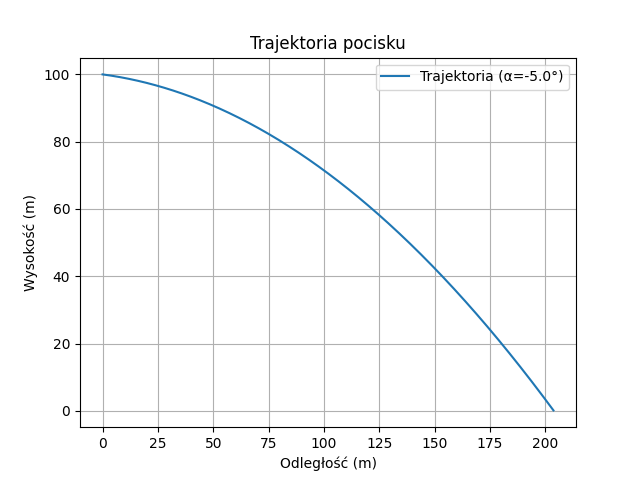
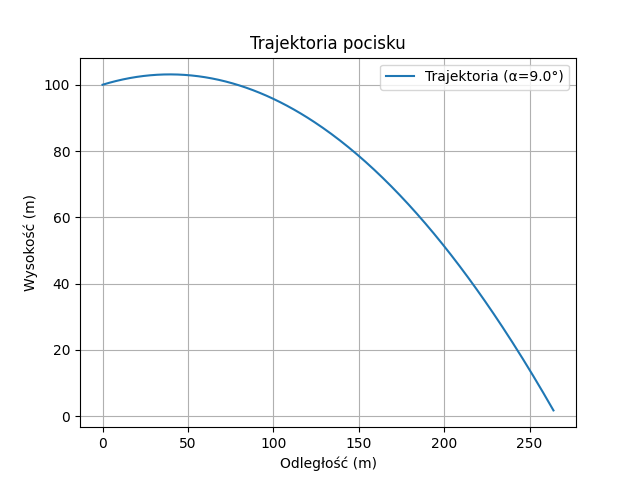
skonczony lab1

diff --git a/lab1/zad2.py b/lab1/zad2.py
@@ -2,49 +2,110 @@ import math
 import random
 import matplotlib.pyplot as plt
 
-g = 9.81
-h = 100
-v0 = 50
+g = 9.8 # Przyspieszenie ziemskie
+h = 100 # Wysokość trebusza
+v0 = 50 # Początkowa prędkość pocisków
 
-def oblicz_dystans(alpha):
-    alpha_rad = math.radians(alpha)
-    return (v0 * math.sin(alpha_rad) + math.sqrt(v0 ** 2 * math.sin(alpha_rad) ** 2 + 2 * g * h)) * (
-                v0 * math.cos(alpha_rad) / g)
+def oblicz_dystans(kąt):
+    kąt_na_radiany = math.radians(kąt)
+    return (v0 * math.sin(kąt_na_radiany) + math.sqrt(v0 ** 2 * math.sin(kąt_na_radiany) ** 2 + 2 * g * h)) * (v0 * math.cos(kąt_na_radiany) / g)
 
-def rysuj_trajektorie(alpha):
-    alpha_rad = math.radians(alpha)
-    vx = v0 * math.cos(alpha_rad)
-    vy = v0 * math.sin(alpha_rad)
+def rysuj_trajektorie(kąt):
+    kąt_na_radiany = math.radians(kąt)
 
-    t_max = (vy + math.sqrt(vy ** 2 + 2 * g * h)) / g
-    t_values = [t * 0.01 for t in range(int(t_max / 0.01) + 1)]
+    x_values = []
+    for x in range(0, int(oblicz_dystans(kąt)), 1):
+        x_values.append(x)
 
-    x_values = [vx * t for t in t_values]
-    y_values = [vy * t - 0.5 * g * t ** 2 + h for t in t_values]
+    y_values = [(-g / (2 * v0**2 * math.cos(kąt_na_radiany)**2)) * x**2 + (math.tan(kąt_na_radiany) * x) + h for x in x_values]
 
-    plt.plot(x_values, y_values, label=f'Trajektoria (α={alpha}°)')
+
+    plt.plot(x_values, y_values, label=f'Trajektoria (α={kąt}°)')
     plt.xlabel('Odległość (m)')
     plt.ylabel('Wysokość (m)')
     plt.title('Trajektoria pocisku')
     plt.grid()
     plt.legend()
     plt.savefig('trajektoria.png')
-    plt.show()
 
 
 cel = random.randint(50, 340)
 print(f'Cel znajduje się w odległości {cel} metrów.')
+print("")
 
 proby = 0
 while True:
     proby += 1
-    kat = float(input('Podaj kąt strzału (w stopniach): '))
-    dystans = oblicz_dystans(kat)
+    kąt_strzalu_podany_przez_uzytkownika = float(input('Podaj kąt strzału: '))
+    dystans = oblicz_dystans(kąt_strzalu_podany_przez_uzytkownika)
     print(f'Pocisk upadł na odległość {dystans:.2f} metrów.')
 
     if cel - 5 <= dystans <= cel + 5:
         print(f'Cel trafiony! Liczba prób: {proby}')
-        rysuj_trajektorie(kat)
+        rysuj_trajektorie(kąt_strzalu_podany_przez_uzytkownika)
         break
     else:
         print('Nie trafiono. Spróbuj ponownie.')
+
+
+
+
+
+
+
+
+
+
+
+# wercja chata GPT:
+
+# import math
+# import random
+
+# def calculate_range(v0, h, angle):
+#     g = 9.81  # Przyspieszenie grawitacyjne (m/s^2)
+#     alpha = math.radians(angle)  # Konwersja kąta na radiany
+    
+#     # Czas lotu - rozwiązanie równania ruchu pionowego
+#     t1 = v0 * math.sin(alpha) / g  # Czas wznoszenia
+#     t2 = math.sqrt(2 * h / g)  # Czas spadania
+#     total_time = t1 + t2  # Całkowity czas lotu
+    
+#     # Zasięg poziomy
+#     d = v0 * math.cos(alpha) * total_time
+#     return d
+
+# def main():
+#     v0 = 50  # Początkowa prędkość (m/s)
+#     h = 100  # Wysokość trebusza (m)
+#     target = random.randint(50, 340)  # Losowa odległość celu
+#     margin = 5  # Dopuszczalny margines błędu
+#     attempts = 0
+    
+#     print(f"Cel znajduje się w odległości {target} metrów.")
+    
+#     while True:
+#         try:
+#             angle = float(input("Podaj kąt strzału (w stopniach): "))
+#         except ValueError:
+#             print("Proszę podać liczbę.")
+#             continue
+        
+#         attempts += 1
+#         shot_distance = calculate_range(v0, h, angle)
+#         print(f"Pocisk doleciał na odległość {shot_distance:.2f} metrów.")
+        
+#         if target - margin <= shot_distance <= target + margin:
+#             print(f"Cel trafiony! Liczba prób: {attempts}")
+#             break
+#         else:
+#             print("Chybiony! Spróbuj ponownie.")
+
+# if __name__ == "__main__":
+#     main()
+
+
+
+# chat zrobił to innym sposobem, uzyl innych wzorów
+# Ten sposób wykonania tego zadania wydaje sie trudniejszy na pierwszy rzut oka,
+# a długość kodów jest podobna

diff --git a/lab1/zad1.py b/lab1/zad1.py
@@ -42,8 +42,8 @@ if (intelektualna_fala <= -0.5 or emocjonalna_fala <= -0.5 or fizyczna_fala <= -
         print("Nie wszystkie wyniki wyszły pozytywne, jutro bedzie lepiej!")
 
 
-print("")
-print(f"Wyniki jutro: {fizyczna_fala_jutro:.2f}, Emocjonalna fala: {emocjonalna_fala_jutro:.2f}, Intelektualna fala: {intelektualna_fala_jutro:.2f}")
+# print("")
+# print(f"Wyniki jutro: {fizyczna_fala_jutro:.2f}, Emocjonalna fala: {emocjonalna_fala_jutro:.2f}, Intelektualna fala: {intelektualna_fala_jutro:.2f}")
 
 
 # zajelo mi okolo 40min
